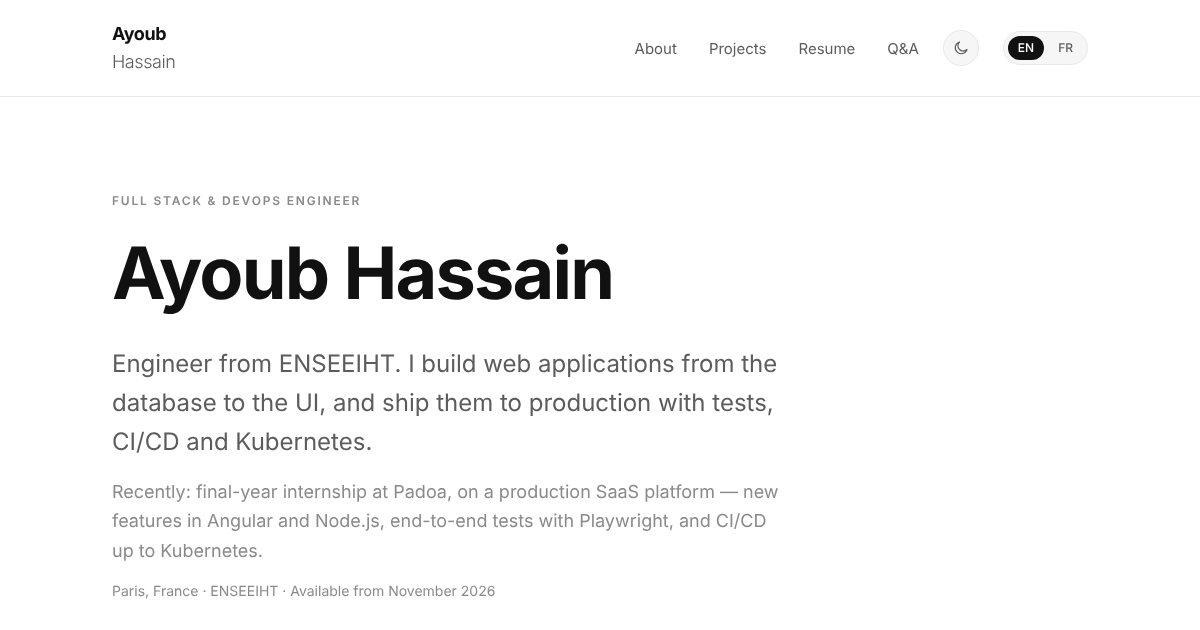
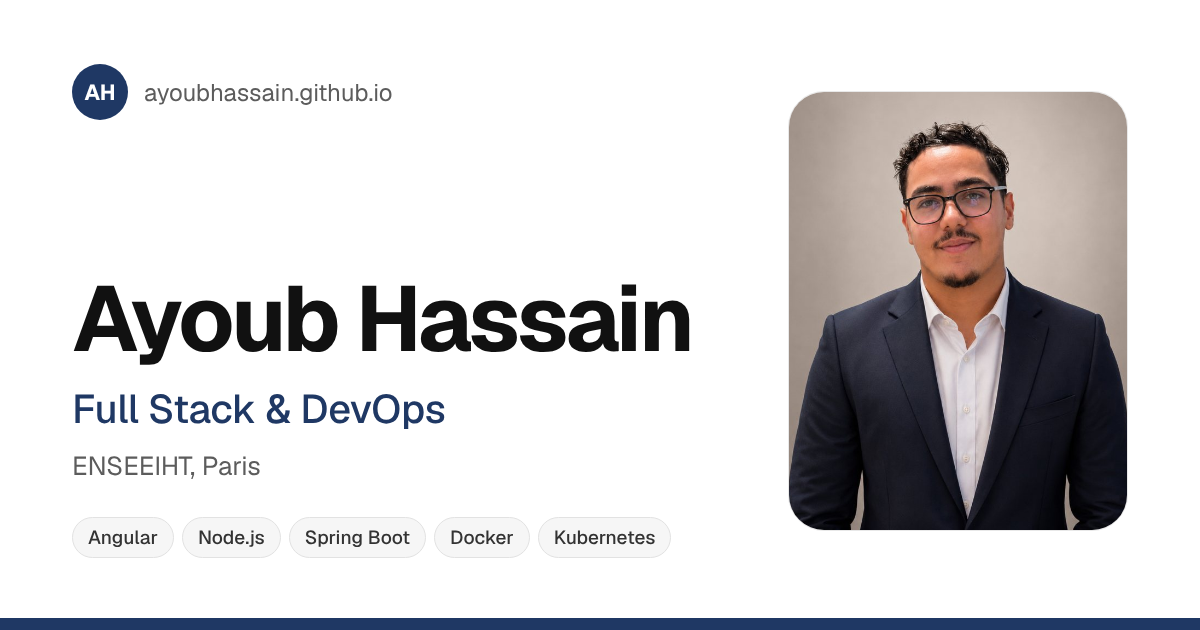
Icône AH et nouvelle image d'aperçu pour le partage

diff --git a/src/app/layout.tsx b/src/app/layout.tsx
@@ -13,8 +13,20 @@ const geistMono = Geist_Mono({
   subsets: ["latin"],
 });
 
+// Default metadata, used by the root URL when the link is shared (LinkedIn, WhatsApp, email).
+// Each page overrides the title and description.
 export const metadata: Metadata = {
   metadataBase: new URL(SITE_URL),
+  title: "Ayoub Hassain — Full Stack & DevOps",
+  description: "Ingénieur full stack et DevOps diplômé de l'ENSEEIHT, basé à Paris. Angular, Node.js, Java/Spring Boot, Docker, Kubernetes.",
+  openGraph: {
+    title: "Ayoub Hassain — Full Stack & DevOps",
+    description: "Ingénieur full stack et DevOps diplômé de l'ENSEEIHT, basé à Paris.",
+    url: SITE_URL,
+    type: "website",
+    images: [{ url: `${SITE_URL}/og-image.png`, width: 1200, height: 630 }],
+  },
+  twitter: { card: "summary_large_image", images: [`${SITE_URL}/og-image.png`] },
 };
 
 const themeInitScript = `(function(){try{var t=localStorage.getItem("theme");var d=t==="dark"||(t!=="light"&&window.matchMedia("(prefers-color-scheme: dark)").matches);if(d)document.documentElement.classList.add("dark")}catch(e){}})();`;

diff --git a/src/lib/site-metadata.ts b/src/lib/site-metadata.ts
@@ -28,7 +28,7 @@ export function buildPageMetadata({
       description,
       url,
       type: "website",
-      images: [{ url: OG_IMAGE }],
+      images: [{ url: OG_IMAGE, width: 1200, height: 630 }],
     },
     twitter: {
       card: "summary_large_image",
